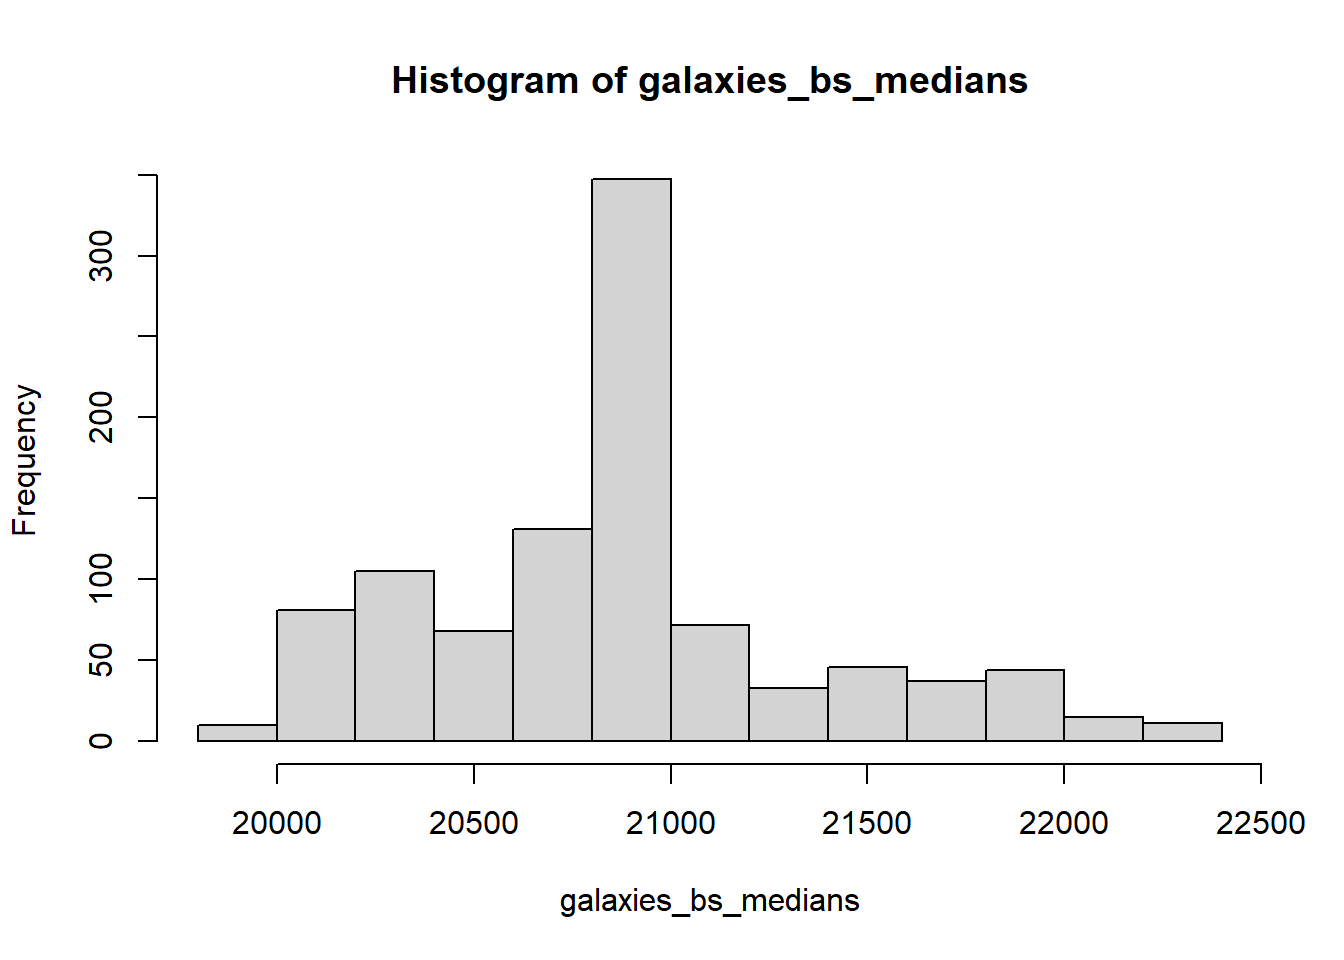
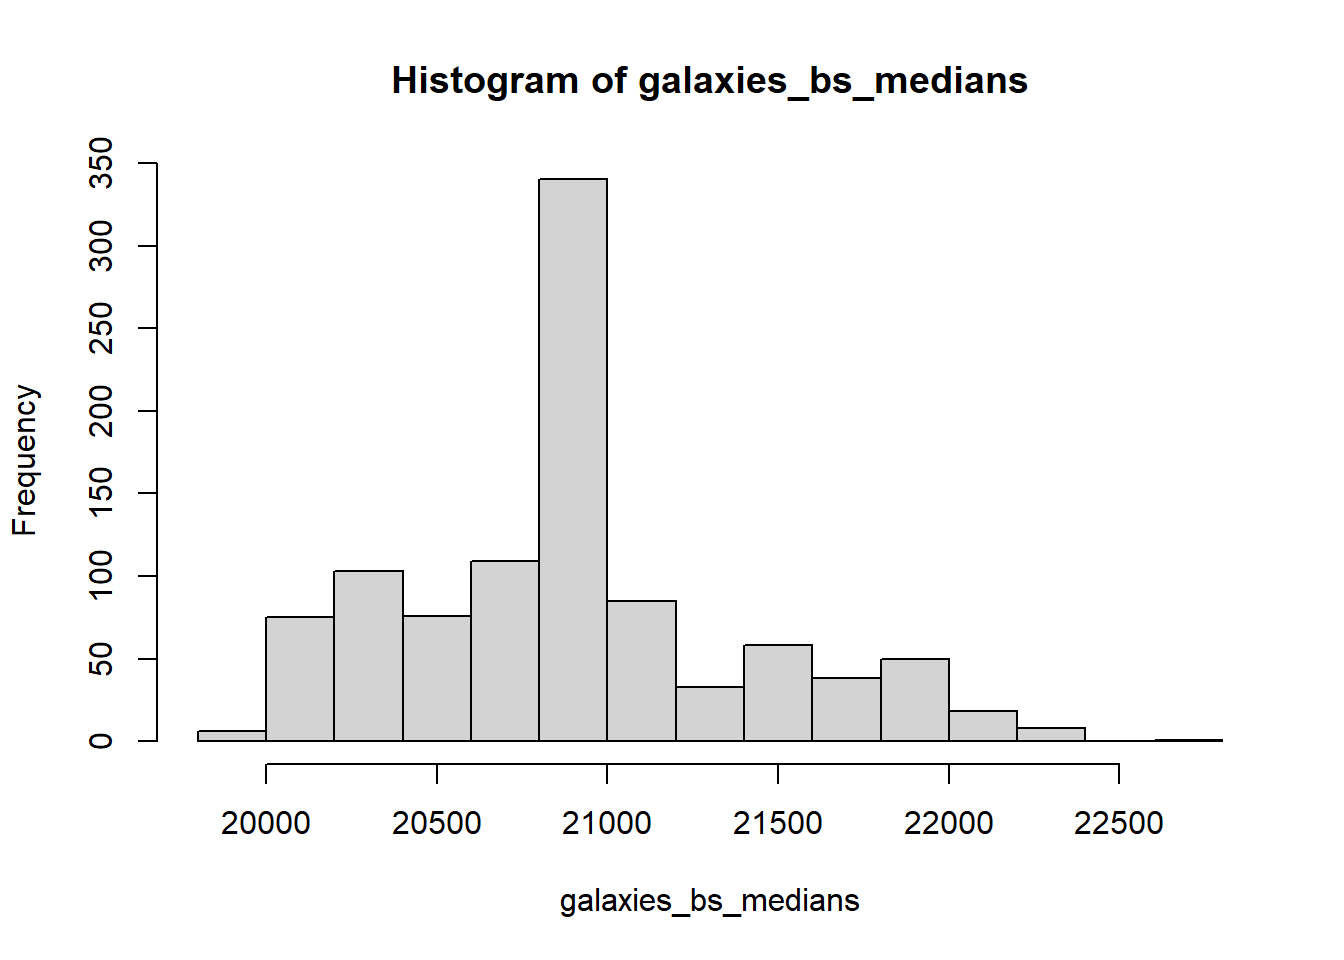
final render

diff --git a/_site/Prac_12.html b/_site/Prac_12.html
@@ -232,16 +232,16 @@ pre > code.sourceCode > span > a:first-child::before { text-decoration: underlin
 <pre><code># A tibble: 100 × 2
     Mean Variance
    &lt;dbl&gt;    &lt;dbl&gt;
- 1 1.29     1.59 
- 2 1.02     0.717
- 3 0.952    0.788
- 4 1.02     0.894
- 5 0.972    0.867
- 6 1.05     1.43 
- 7 1.09     1.33 
- 8 1.03     1.12 
- 9 0.880    0.984
-10 1.09     1.25 
+ 1 0.978    0.839
+ 2 0.853    0.734
+ 3 1.11     1.07 
+ 4 0.920    0.965
+ 5 1.13     1.67 
+ 6 0.946    0.834
+ 7 1.10     0.927
+ 8 1.13     1.28 
+ 9 1.11     1.19 
+10 1.06     1.02 
 # ℹ 90 more rows</code></pre>
 </div>
 </div>
@@ -265,7 +265,7 @@ pre > code.sourceCode > span > a:first-child::before { text-decoration: underlin
 <span id="cb7-6"><a href="#cb7-6" aria-hidden="true" tabindex="-1"></a>})</span></code></pre></div><button title="Copy to Clipboard" class="code-copy-button"><i class="bi"></i></button></div>
 <div class="cell-output cell-output-stdout">
 <pre><code>   user  system elapsed 
-   0.28    0.02    0.33 </code></pre>
+   0.24    0.02    0.25 </code></pre>
 </div>
 </div>
 <div class="cell">
@@ -291,7 +291,7 @@ pre > code.sourceCode > span > a:first-child::before { text-decoration: underlin
 <span id="cb10-9"><a href="#cb10-9" aria-hidden="true" tabindex="-1"></a>})</span></code></pre></div><button title="Copy to Clipboard" class="code-copy-button"><i class="bi"></i></button></div>
 <div class="cell-output cell-output-stdout">
 <pre><code>   user  system elapsed 
-   0.28    0.03    0.36 </code></pre>
+   0.22    0.07    0.34 </code></pre>
 </div>
 <div class="code-copy-outer-scaffold"><div class="sourceCode cell-code" id="cb12"><pre class="sourceCode r code-with-copy"><code class="sourceCode r"><span id="cb12-1"><a href="#cb12-1" aria-hidden="true" tabindex="-1"></a><span class="fu">stopCluster</span>(cl)</span></code></pre></div><button title="Copy to Clipboard" class="code-copy-button"><i class="bi"></i></button></div>
 </div>
@@ -303,13 +303,14 @@ pre > code.sourceCode > span > a:first-child::before { text-decoration: underlin
 <span id="cb13-3"><a href="#cb13-3" aria-hidden="true" tabindex="-1"></a></span>
 <span id="cb13-4"><a href="#cb13-4" aria-hidden="true" tabindex="-1"></a><span class="fu">system.time</span>({</span>
 <span id="cb13-5"><a href="#cb13-5" aria-hidden="true" tabindex="-1"></a>  galaxies_bs_medians_1000 <span class="ot">&lt;-</span> <span class="fu">foreach</span>(<span class="at">i =</span> <span class="dv">1</span><span class="sc">:</span><span class="dv">3</span>, <span class="at">.combine =</span> c) <span class="sc">%dopar%</span> {</span>
-<span id="cb13-6"><a href="#cb13-6" aria-hidden="true" tabindex="-1"></a>    bs_sample_1000 <span class="ot">&lt;-</span> <span class="fu">replicate</span>(<span class="dv">1000</span>,<span class="fu">median</span>(<span class="fu">sample</span>(data,<span class="fu">length</span>(data),<span class="at">replace =</span> T)))</span>
-<span id="cb13-7"><a href="#cb13-7" aria-hidden="true" tabindex="-1"></a>    bs_sample_1000</span>
-<span id="cb13-8"><a href="#cb13-8" aria-hidden="true" tabindex="-1"></a>}</span>
-<span id="cb13-9"><a href="#cb13-9" aria-hidden="true" tabindex="-1"></a>})</span></code></pre></div><button title="Copy to Clipboard" class="code-copy-button"><i class="bi"></i></button></div>
+<span id="cb13-6"><a href="#cb13-6" aria-hidden="true" tabindex="-1"></a>    bs_sample_1000 <span class="ot">&lt;-</span> <span class="fu">replicate</span>(</span>
+<span id="cb13-7"><a href="#cb13-7" aria-hidden="true" tabindex="-1"></a>      <span class="dv">1000</span>,<span class="fu">median</span>(<span class="fu">sample</span>(data,<span class="fu">length</span>(data),<span class="at">replace =</span> T)))</span>
+<span id="cb13-8"><a href="#cb13-8" aria-hidden="true" tabindex="-1"></a>    bs_sample_1000</span>
+<span id="cb13-9"><a href="#cb13-9" aria-hidden="true" tabindex="-1"></a>}</span>
+<span id="cb13-10"><a href="#cb13-10" aria-hidden="true" tabindex="-1"></a>})</span></code></pre></div><button title="Copy to Clipboard" class="code-copy-button"><i class="bi"></i></button></div>
 <div class="cell-output cell-output-stdout">
 <pre><code>   user  system elapsed 
-   0.00    0.00    0.11 </code></pre>
+   0.02    0.00    0.11 </code></pre>
 </div>
 <div class="code-copy-outer-scaffold"><div class="sourceCode cell-code" id="cb15"><pre class="sourceCode r code-with-copy"><code class="sourceCode r"><span id="cb15-1"><a href="#cb15-1" aria-hidden="true" tabindex="-1"></a><span class="fu">stopCluster</span>(cl)</span></code></pre></div><button title="Copy to Clipboard" class="code-copy-button"><i class="bi"></i></button></div>
 </div>
@@ -350,7 +351,7 @@ pre > code.sourceCode > span > a:first-child::before { text-decoration: underlin
 <span id="cb17-19"><a href="#cb17-19" aria-hidden="true" tabindex="-1"></a>})</span></code></pre></div><button title="Copy to Clipboard" class="code-copy-button"><i class="bi"></i></button></div>
 <div class="cell-output cell-output-stdout">
 <pre><code>   user  system elapsed 
-   0.50    0.04    8.46 </code></pre>
+   0.45    0.09    8.94 </code></pre>
 </div>
 <div class="code-copy-outer-scaffold"><div class="sourceCode cell-code" id="cb19"><pre class="sourceCode r code-with-copy"><code class="sourceCode r"><span id="cb19-1"><a href="#cb19-1" aria-hidden="true" tabindex="-1"></a><span class="fu">stopCluster</span>(cl)</span></code></pre></div><button title="Copy to Clipboard" class="code-copy-button"><i class="bi"></i></button></div>
 </div>
@@ -359,7 +360,7 @@ pre > code.sourceCode > span > a:first-child::before { text-decoration: underlin
 <div class="code-copy-outer-scaffold"><div class="sourceCode cell-code" id="cb20"><pre class="sourceCode r code-with-copy"><code class="sourceCode r"><span id="cb20-1"><a href="#cb20-1" aria-hidden="true" tabindex="-1"></a>coverage <span class="ot">&lt;-</span> <span class="fu">sum</span>(coverage_pci_bs)<span class="sc">/</span>n</span>
 <span id="cb20-2"><a href="#cb20-2" aria-hidden="true" tabindex="-1"></a>coverage</span></code></pre></div><button title="Copy to Clipboard" class="code-copy-button"><i class="bi"></i></button></div>
 <div class="cell-output cell-output-stdout">
-<pre><code>[1] 0.921</code></pre>
+<pre><code>[1] 0.941</code></pre>
 </div>
 </div>
 </section>
@@ -407,7 +408,7 @@ pre > code.sourceCode > span > a:first-child::before { text-decoration: underlin
 <div class="code-copy-outer-scaffold"><div class="sourceCode cell-code" id="cb27"><pre class="sourceCode r code-with-copy"><code class="sourceCode r"><span id="cb27-1"><a href="#cb27-1" aria-hidden="true" tabindex="-1"></a>time_foreach</span></code></pre></div><button title="Copy to Clipboard" class="code-copy-button"><i class="bi"></i></button></div>
 <div class="cell-output cell-output-stdout">
 <pre><code>   user  system elapsed 
-   0.00    0.01    0.30 </code></pre>
+   0.00    0.02    0.33 </code></pre>
 </div>
 </div>
 <div class="cell">
@@ -429,12 +430,12 @@ pre > code.sourceCode > span > a:first-child::before { text-decoration: underlin
 <span id="cb29-16"><a href="#cb29-16" aria-hidden="true" tabindex="-1"></a></span>
 <span id="cb29-17"><a href="#cb29-17" aria-hidden="true" tabindex="-1"></a>max_values_parLapply</span></code></pre></div><button title="Copy to Clipboard" class="code-copy-button"><i class="bi"></i></button></div>
 <div class="cell-output cell-output-stdout">
-<pre><code>[1] 1.6094242 0.5810309 1.1683156</code></pre>
+<pre><code>[1] 1.4067074 0.8687848 0.7324748</code></pre>
 </div>
 <div class="code-copy-outer-scaffold"><div class="sourceCode cell-code" id="cb31"><pre class="sourceCode r code-with-copy"><code class="sourceCode r"><span id="cb31-1"><a href="#cb31-1" aria-hidden="true" tabindex="-1"></a>time_parLapply</span></code></pre></div><button title="Copy to Clipboard" class="code-copy-button"><i class="bi"></i></button></div>
 <div class="cell-output cell-output-stdout">
 <pre><code>   user  system elapsed 
-   0.00    0.04    0.27 </code></pre>
+   0.02    0.03    0.31 </code></pre>
 </div>
 </div>
 <div class="cell">
@@ -456,7 +457,7 @@ pre > code.sourceCode > span > a:first-child::before { text-decoration: underlin
 <p>The table below shows shows the time it took each of the three above methods to run:</p>
 <div class="cell">
 <div class="code-copy-outer-scaffold"><div class="sourceCode cell-code" id="cb37"><pre class="sourceCode r code-with-copy"><code class="sourceCode r"><span id="cb37-1"><a href="#cb37-1" aria-hidden="true" tabindex="-1"></a>times <span class="ot">&lt;-</span> <span class="fu">rbind</span>(time_foreach,time_parLapply,time_replicate)</span>
-<span id="cb37-2"><a href="#cb37-2" aria-hidden="true" tabindex="-1"></a><span class="fu">kable</span>(times, <span class="at">caption =</span> <span class="st">"Times Comparison of Three Methods"</span>)</span></code></pre></div><button title="Copy to Clipboard" class="code-copy-button"><i class="bi"></i></button></div>
+<span id="cb37-2"><a href="#cb37-2" aria-hidden="true" tabindex="-1"></a><span class="fu">kable</span>(times[,<span class="dv">1</span><span class="sc">:</span><span class="dv">3</span>], <span class="at">caption =</span> <span class="st">"Times Comparison of Three Methods"</span>)</span></code></pre></div><button title="Copy to Clipboard" class="code-copy-button"><i class="bi"></i></button></div>
 <div class="cell-output-display">
 <table class="caption-top table table-sm table-striped small">
 <caption>Times Comparison of Three Methods</caption>
@@ -466,45 +467,38 @@ pre > code.sourceCode > span > a:first-child::before { text-decoration: underlin
 <th style="text-align: right;">user.self</th>
 <th style="text-align: right;">sys.self</th>
 <th style="text-align: right;">elapsed</th>
-<th style="text-align: right;">user.child</th>
-<th style="text-align: right;">sys.child</th>
 </tr>
 </thead>
 <tbody>
 <tr class="odd">
 <td style="text-align: left;">time_foreach</td>
-<td style="text-align: right;">0</td>
-<td style="text-align: right;">0.01</td>
-<td style="text-align: right;">0.30</td>
-<td style="text-align: right;">NA</td>
-<td style="text-align: right;">NA</td>
+<td style="text-align: right;">0.00</td>
+<td style="text-align: right;">0.02</td>
+<td style="text-align: right;">0.33</td>
 </tr>
 <tr class="even">
 <td style="text-align: left;">time_parLapply</td>
-<td style="text-align: right;">0</td>
-<td style="text-align: right;">0.04</td>
-<td style="text-align: right;">0.27</td>
-<td style="text-align: right;">NA</td>
-<td style="text-align: right;">NA</td>
+<td style="text-align: right;">0.02</td>
+<td style="text-align: right;">0.03</td>
+<td style="text-align: right;">0.31</td>
 </tr>
 <tr class="odd">
 <td style="text-align: left;">time_replicate</td>
-<td style="text-align: right;">0</td>
 <td style="text-align: right;">0.00</td>
 <td style="text-align: right;">0.00</td>
-<td style="text-align: right;">NA</td>
-<td style="text-align: right;">NA</td>
+<td style="text-align: right;">0.00</td>
 </tr>
 </tbody>
 </table>
 </div>
 </div>
-<p>The table above shows us that each function has a similar run time to the others, with no noticeable differences.</p>
+<p>From the table above, we can see that the foreach and parLapply functions have a similar run times, with no noticeable difference between them. Replicate, however, despite not running in parallel is much faster, practically instant. The time it takes to setup the clusters in foreach and parLapply make them slower for such a simple task. The benefit of parallelisation was not worth it.</p>
 <div class="cell">
 <div class="code-copy-outer-scaffold"><div class="sourceCode cell-code" id="cb38"><pre class="sourceCode r code-with-copy"><code class="sourceCode r"><span id="cb38-1"><a href="#cb38-1" aria-hidden="true" tabindex="-1"></a>max_values_all <span class="ot">&lt;-</span> <span class="fu">rbind</span>(max_values_foreach,</span>
 <span id="cb38-2"><a href="#cb38-2" aria-hidden="true" tabindex="-1"></a>                        max_values_parLapply,</span>
 <span id="cb38-3"><a href="#cb38-3" aria-hidden="true" tabindex="-1"></a>                        max_values_replicate)</span></code></pre></div><button title="Copy to Clipboard" class="code-copy-button"><i class="bi"></i></button></div>
 </div>
+<p>Below we compare the maximum values of each vector that each method produced:</p>
 <div class="cell">
 <div class="code-copy-outer-scaffold"><div class="sourceCode cell-code" id="cb39"><pre class="sourceCode r code-with-copy"><code class="sourceCode r"><span id="cb39-1"><a href="#cb39-1" aria-hidden="true" tabindex="-1"></a><span class="fu">kable</span>(<span class="fu">round</span>(max_values_all,<span class="dv">2</span>), </span>
 <span id="cb39-2"><a href="#cb39-2" aria-hidden="true" tabindex="-1"></a>      <span class="at">caption =</span> <span class="st">"Max Value Comparison of Three Methods"</span>)</span></code></pre></div><button title="Copy to Clipboard" class="code-copy-button"><i class="bi"></i></button></div>
@@ -520,9 +514,9 @@ pre > code.sourceCode > span > a:first-child::before { text-decoration: underlin
 </tr>
 <tr class="even">
 <td style="text-align: left;">max_values_parLapply</td>
-<td style="text-align: right;">1.61</td>
-<td style="text-align: right;">0.58</td>
-<td style="text-align: right;">1.17</td>
+<td style="text-align: right;">1.41</td>
+<td style="text-align: right;">0.87</td>
+<td style="text-align: right;">0.73</td>
 </tr>
 <tr class="odd">
 <td style="text-align: left;">max_values_replicate</td>
@@ -534,6 +528,7 @@ pre > code.sourceCode > span > a:first-child::before { text-decoration: underlin
 </table>
 </div>
 </div>
+<p>From the table above, we can see that the use of irnorm in the foreach function resulted in the seed working correctly, as it matches the values achieved by replicate. Unfortunately, parLapply did not achieve the same values as each worker generates its own random numbers independently.</p>
 
 
 </section>
